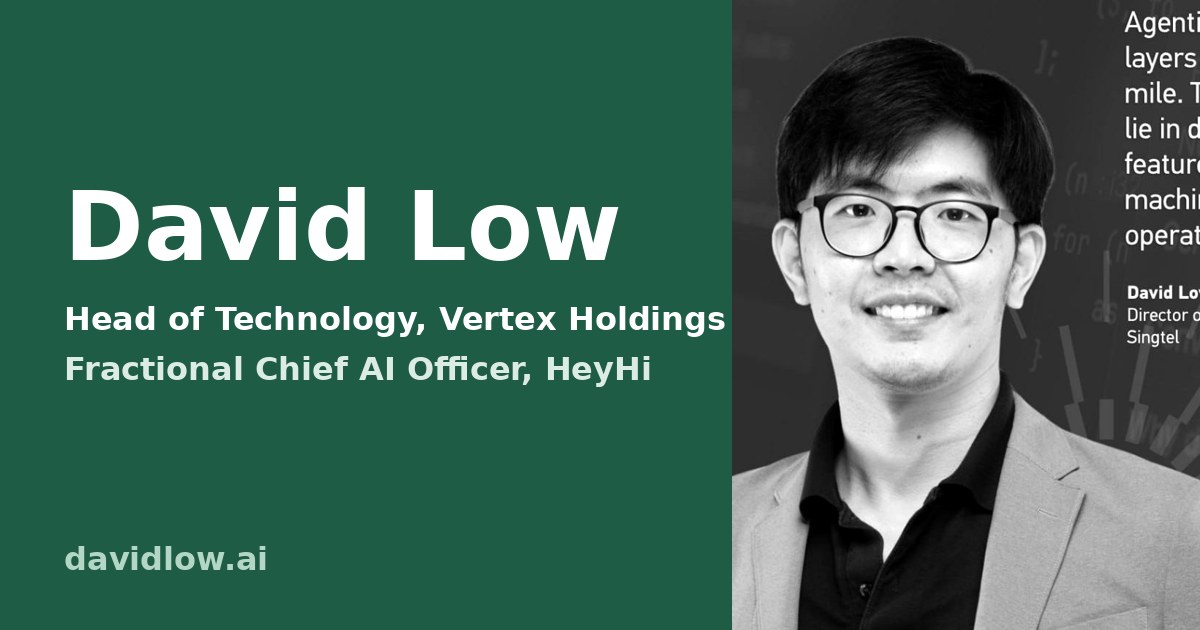
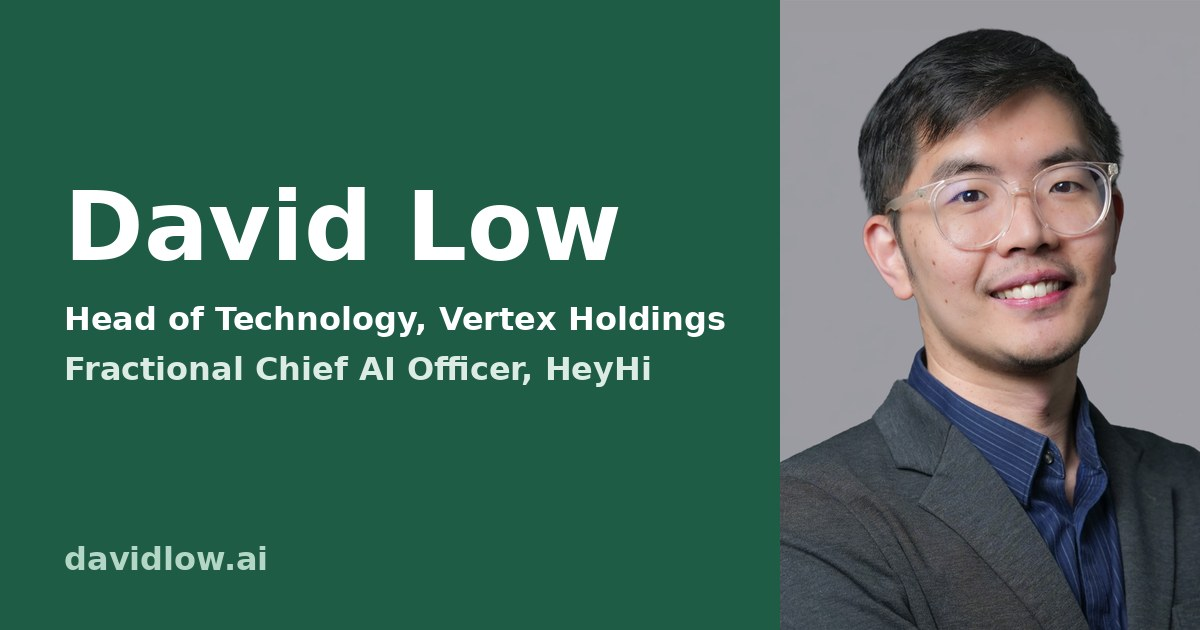
Hero + share image: Vertex Holdings team headshot

diff --git a/assets/css/v2.css b/assets/css/v2.css
@@ -47,7 +47,7 @@ p{text-wrap:pretty}
 .hero__grid{display:grid;grid-template-columns:1.35fr 1fr;gap:64px;align-items:end}
 .hero figure{margin:0}
 .hero__photo{position:relative;border-radius:16px;overflow:hidden;background:var(--paper-2)}
-.hero__photo img{width:100%;height:100%;object-fit:cover;object-position:50% 20%}
+.hero__photo img{width:100%;height:100%;object-fit:cover;object-position:50% 30%}
 
 .hero__intro{margin:24px 0 0;font-size:18px;line-height:28px;color:var(--ink-2);max-width:520px}
 .hero__ctas{display:flex;align-items:center;gap:24px;margin-top:40px}

diff --git a/index.html b/index.html
@@ -57,7 +57,7 @@
       </div>
     </div>
     <figure class="hero__photo">
-      <img src="/assets/img/v2/david-portrait.jpg" width="520" height="700" alt="Portrait of David Low">
+      <img src="/assets/img/v2/david-hero.jpg" width="960" height="1200" alt="Portrait of David Low" fetchpriority="high">
     </figure>
   </div>
 </section>
